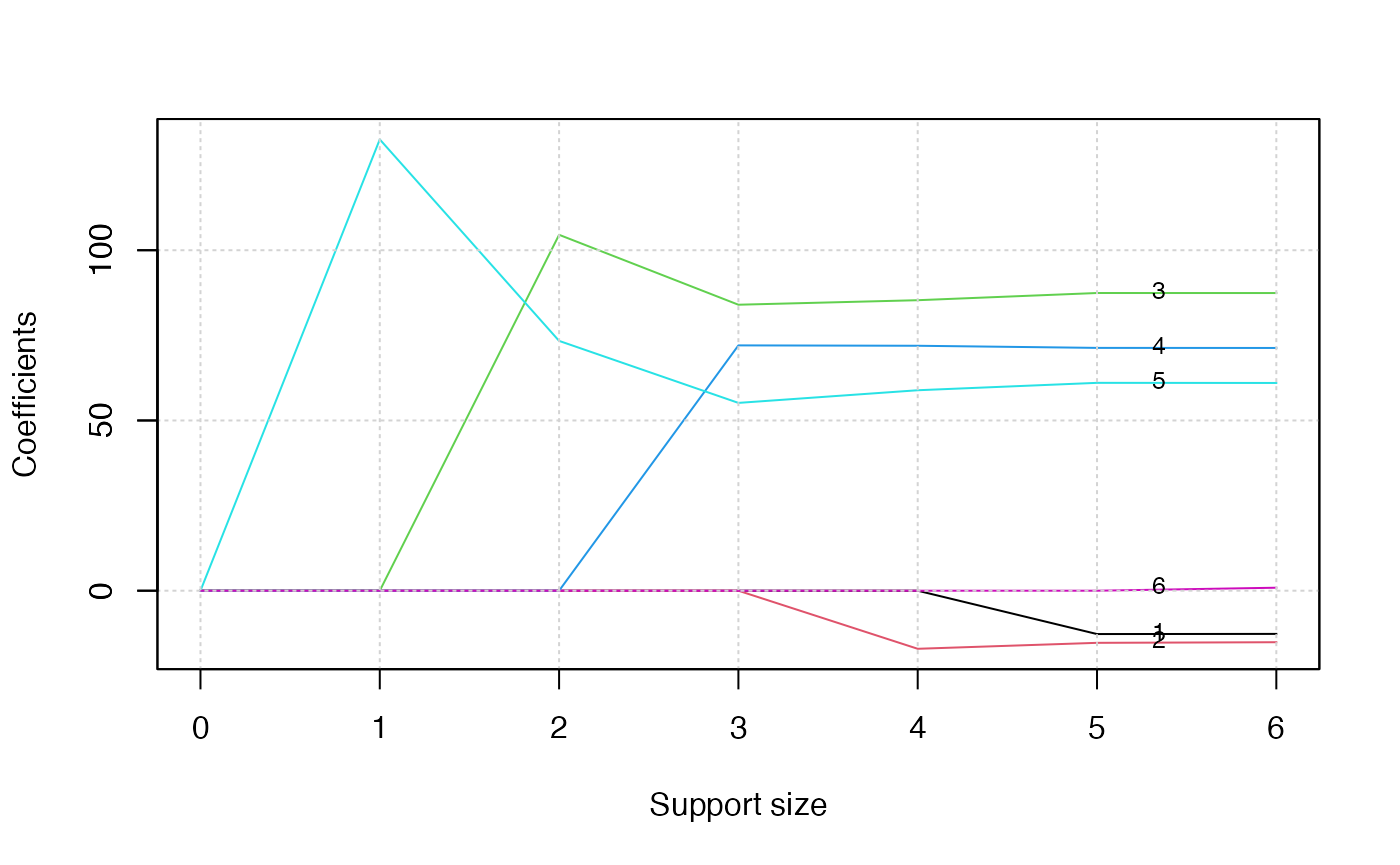
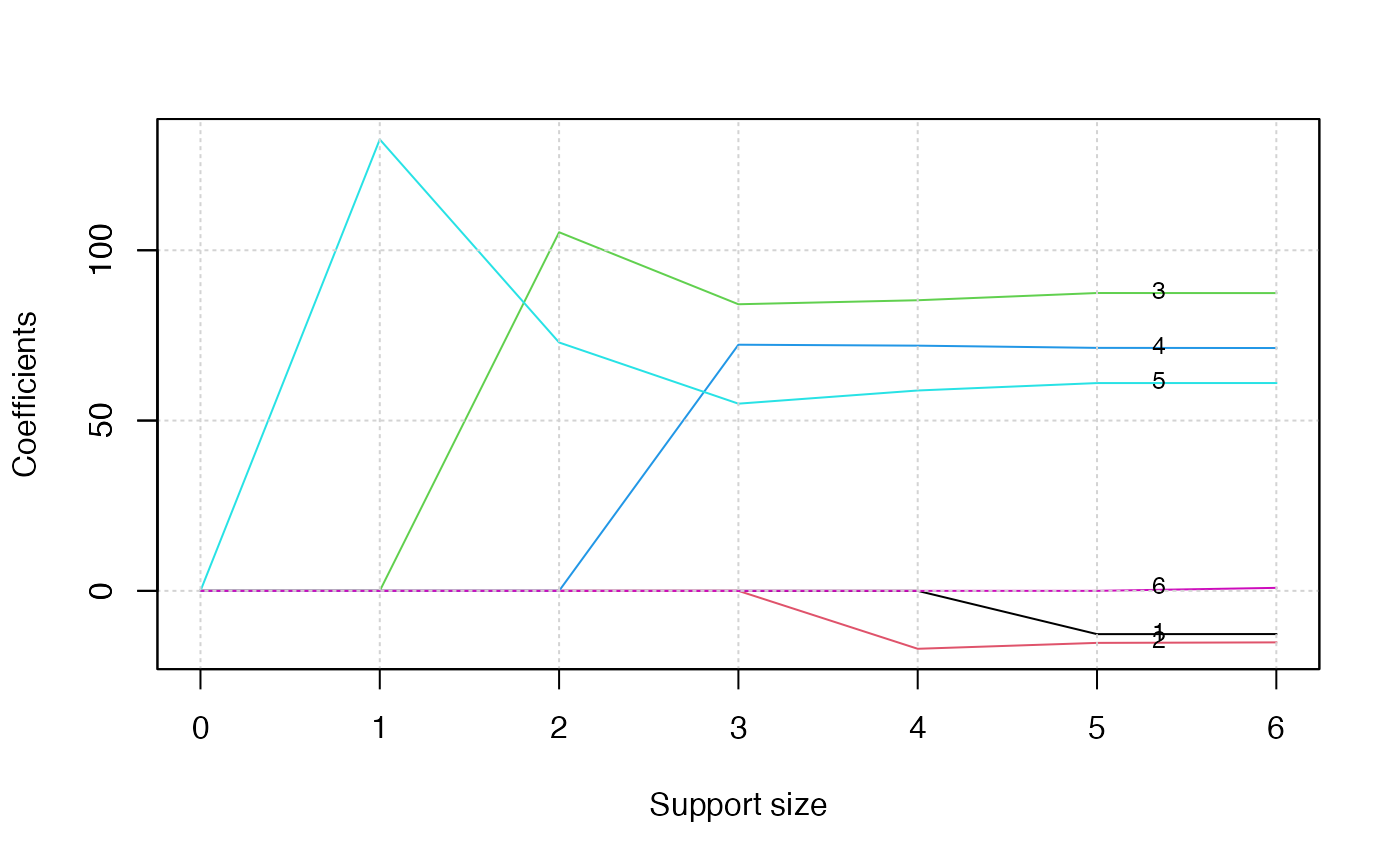
Built site for abess: 0.4.0@6e0a766

diff --git a/articles/v09-fasterSetting.html b/articles/v09-fasterSetting.html
@@ -176,13 +176,13 @@
 <span class="va">x</span> <span class="op">&lt;-</span> <span class="fu"><a href="https://rdrr.io/pkg/Matrix/man/Matrix.html" class="external-link">Matrix</a></span><span class="op">(</span><span class="va">x</span><span class="op">)</span>
 <span class="fu"><a href="https://rdrr.io/r/utils/head.html" class="external-link">head</a></span><span class="op">(</span><span class="va">x</span><span class="op">[</span>, <span class="fl">1</span><span class="op">:</span><span class="fl">10</span><span class="op">]</span><span class="op">)</span></code></pre></div>
 <pre><code><span class="co">## 6 x 10 sparse Matrix of class "dgCMatrix"</span>
-<span class="co">##                                                        </span>
-<span class="co">## [1,] . . . . . .          .  .        .         .      </span>
-<span class="co">## [2,] . . . . . .          . -1.021261 .         .      </span>
-<span class="co">## [3,] . . . . . .          .  .        1.659707  .      </span>
-<span class="co">## [4,] . . . . . .          .  .        .         .      </span>
-<span class="co">## [5,] . . . . . .          .  .        .         .      </span>
-<span class="co">## [6,] . . . . . 0.03339956 .  .        .        -1.78377</span></code></pre>
+<span class="co">##                                                                         </span>
+<span class="co">## [1,] -1.077961  .         . . .         . .          .        . .       </span>
+<span class="co">## [2,]  .         .         . . .         . .          .        . .       </span>
+<span class="co">## [3,]  .         0.7864908 . . 0.7023204 . .          .        . 0.330055</span>
+<span class="co">## [4,]  .         .         . . .         . .          .        . .       </span>
+<span class="co">## [5,]  .         .         . . .         . .          .        . .       </span>
+<span class="co">## [6,]  .        -0.8052227 . . .         . 0.5017217 -0.138376 . .</span></code></pre>
 <p>Then, we apply ABESS algorithm on Matrix <code>x</code> and record the runtime in <code>t1</code>:</p>
 <div class="sourceCode" id="cb5"><pre class="downlit sourceCode r">
 <code class="sourceCode R"><span class="kw"><a href="https://rdrr.io/r/base/library.html" class="external-link">library</a></span><span class="op">(</span><span class="va"><a href="https://github.com/abess-team/abess" class="external-link">abess</a></span><span class="op">)</span>
@@ -191,19 +191,19 @@
 <div class="sourceCode" id="cb6"><pre class="downlit sourceCode r">
 <code class="sourceCode R"><span class="va">x</span> <span class="op">&lt;-</span> <span class="fu"><a href="https://rdrr.io/r/base/matrix.html" class="external-link">as.matrix</a></span><span class="op">(</span><span class="va">x</span><span class="op">)</span>
 <span class="fu"><a href="https://rdrr.io/r/utils/head.html" class="external-link">head</a></span><span class="op">(</span><span class="va">x</span><span class="op">[</span>, <span class="fl">1</span><span class="op">:</span><span class="fl">6</span><span class="op">]</span><span class="op">)</span></code></pre></div>
-<pre><code><span class="co">##      [,1] [,2] [,3] [,4] [,5]       [,6]</span>
-<span class="co">## [1,]    0    0    0    0    0 0.00000000</span>
-<span class="co">## [2,]    0    0    0    0    0 0.00000000</span>
-<span class="co">## [3,]    0    0    0    0    0 0.00000000</span>
-<span class="co">## [4,]    0    0    0    0    0 0.00000000</span>
-<span class="co">## [5,]    0    0    0    0    0 0.00000000</span>
-<span class="co">## [6,]    0    0    0    0    0 0.03339956</span></code></pre>
+<pre><code><span class="co">##           [,1]       [,2] [,3] [,4]      [,5] [,6]</span>
+<span class="co">## [1,] -1.077961  0.0000000    0    0 0.0000000    0</span>
+<span class="co">## [2,]  0.000000  0.0000000    0    0 0.0000000    0</span>
+<span class="co">## [3,]  0.000000  0.7864908    0    0 0.7023204    0</span>
+<span class="co">## [4,]  0.000000  0.0000000    0    0 0.0000000    0</span>
+<span class="co">## [5,]  0.000000  0.0000000    0    0 0.0000000    0</span>
+<span class="co">## [6,]  0.000000 -0.8052227    0    0 0.0000000    0</span></code></pre>
 <div class="sourceCode" id="cb8"><pre class="downlit sourceCode r">
 <code class="sourceCode R"><span class="va">t2</span> <span class="op">&lt;-</span> <span class="fu"><a href="https://rdrr.io/r/base/system.time.html" class="external-link">system.time</a></span><span class="op">(</span><span class="va">abess_fit</span> <span class="op">&lt;-</span> <span class="fu"><a href="../reference/abess.html">abess</a></span><span class="op">(</span><span class="va">x</span>, <span class="va">y</span><span class="op">)</span><span class="op">)</span>
 <span class="fu"><a href="https://rdrr.io/r/base/cbind.html" class="external-link">rbind</a></span><span class="op">(</span><span class="va">t1</span>, <span class="va">t2</span><span class="op">)</span><span class="op">[</span>, <span class="fl">1</span><span class="op">:</span><span class="fl">3</span><span class="op">]</span></code></pre></div>
 <pre><code><span class="co">##    user.self sys.self elapsed</span>
-<span class="co">## t1     0.252    0.007   0.260</span>
-<span class="co">## t2     0.316    0.032   0.349</span></code></pre>
+<span class="co">## t1     0.314    0.010   0.324</span>
+<span class="co">## t2     0.394    0.043   0.438</span></code></pre>
 <p>From the comparison, we see that the time required by sparse matrix is visibly smaller, and thus, we suggest to assign a sparse matrix to <code>abess</code> when the input matrix have a lot of zero entries.</p>
 </div>
 <div class="section level2">
@@ -241,8 +241,8 @@
 <code class="sourceCode R"><span class="va">t2</span> <span class="op">&lt;-</span> <span class="fu"><a href="https://rdrr.io/r/base/system.time.html" class="external-link">system.time</a></span><span class="op">(</span><span class="va">abess_fit</span> <span class="op">&lt;-</span> <span class="fu"><a href="../reference/abess.html">abess</a></span><span class="op">(</span><span class="va">y</span> <span class="op">~</span> <span class="va">.</span>, data <span class="op">=</span> <span class="va">dat</span><span class="op">)</span><span class="op">)</span>
 <span class="fu"><a href="https://rdrr.io/r/base/cbind.html" class="external-link">rbind</a></span><span class="op">(</span><span class="va">t1</span>, <span class="va">t2</span><span class="op">)</span><span class="op">[</span>, <span class="fl">1</span><span class="op">:</span><span class="fl">3</span><span class="op">]</span></code></pre></div>
 <pre><code><span class="co">##    user.self sys.self elapsed</span>
-<span class="co">## t1     0.021     0.00   0.022</span>
-<span class="co">## t2     0.067     0.01   0.086</span></code></pre>
+<span class="co">## t1     0.026    0.001   0.027</span>
+<span class="co">## t2     0.081    0.012   0.093</span></code></pre>
 </div>
 <div class="section level2">
 <h2 id="early-stop">Early stop<a class="anchor" aria-label="anchor" href="#early-stop"></a>
@@ -320,8 +320,8 @@
 <code class="sourceCode R"><span class="va">t2</span> <span class="op">&lt;-</span> <span class="fu"><a href="https://rdrr.io/r/base/system.time.html" class="external-link">system.time</a></span><span class="op">(</span><span class="va">abess_fit</span> <span class="op">&lt;-</span> <span class="fu"><a href="../reference/abess.html">abess</a></span><span class="op">(</span><span class="va">y</span> <span class="op">~</span> <span class="va">.</span>, data <span class="op">=</span> <span class="va">dat</span><span class="op">)</span><span class="op">)</span>
 <span class="fu"><a href="https://rdrr.io/r/base/cbind.html" class="external-link">rbind</a></span><span class="op">(</span><span class="va">t1</span>, <span class="va">t2</span><span class="op">)</span><span class="op">[</span>, <span class="fl">1</span><span class="op">:</span><span class="fl">3</span><span class="op">]</span></code></pre></div>
 <pre><code><span class="co">##    user.self sys.self elapsed</span>
-<span class="co">## t1     0.062    0.007   0.070</span>
-<span class="co">## t2     0.068    0.008   0.076</span></code></pre>
+<span class="co">## t1     0.078    0.011   0.088</span>
+<span class="co">## t2     0.077    0.011   0.088</span></code></pre>
 <p>we can conclude that early-stopping brings fast computation and might maintain statistical guarantee.</p>
 </div>
   </div>

diff --git a/articles/v04-PoissonGammaReg.html b/articles/v04-PoissonGammaReg.html
@@ -303,25 +303,25 @@ y_i \sim Gamma(\mu_i, \alpha),
 <span class="fu"><a href="https://rdrr.io/r/stats/coef.html" class="external-link">coef</a></span><span class="op">(</span><span class="va">abess_fit</span><span class="op">)</span></code></pre></div>
 <pre><code><span class="co">## 7 x 7 sparse Matrix of class "dgCMatrix"</span>
 <span class="co">##                    0        1         2         3         4         5</span>
-<span class="co">## (intercept) 342.3786 433.5399 449.07955 453.59162 454.62486 456.86280</span>
-<span class="co">## age           .        .        .         .         .       -12.73044</span>
-<span class="co">## sex           .        .        .         .       -17.05833 -15.30942</span>
-<span class="co">## job           .        .      104.53483  83.99608  85.32251  87.43632</span>
-<span class="co">## education     .        .        .        72.05160  71.94211  71.31821</span>
-<span class="co">## region        .      132.5486  73.37383  55.16201  58.87711  61.05067</span>
+<span class="co">## (intercept) 342.3786 433.5399 449.27777 453.62074 454.59732 456.83731</span>
+<span class="co">## age           .        .        .         .         .       -12.70806</span>
+<span class="co">## sex           .        .        .         .       -17.01060 -15.27726</span>
+<span class="co">## job           .        .      105.29501  84.15000  85.32617  87.44921</span>
+<span class="co">## education     .        .        .        72.27034  71.99297  71.34328</span>
+<span class="co">## region        .      132.5486  72.92361  54.95905  58.82785  61.00714</span>
 <span class="co">## marriage      .        .        .         .         .         .      </span>
 <span class="co">##                       6</span>
-<span class="co">## (intercept) 456.9214598</span>
-<span class="co">## age         -12.6859059</span>
-<span class="co">## sex         -15.1305799</span>
-<span class="co">## job          87.4267021</span>
-<span class="co">## education    71.2965875</span>
-<span class="co">## region       61.0173033</span>
-<span class="co">## marriage      0.8783947</span></code></pre>
+<span class="co">## (intercept) 456.9220275</span>
+<span class="co">## age         -12.6863180</span>
+<span class="co">## sex         -15.1307531</span>
+<span class="co">## job          87.4276376</span>
+<span class="co">## education    71.2958702</span>
+<span class="co">## region       61.0173585</span>
+<span class="co">## marriage      0.8782877</span></code></pre>
 <div class="sourceCode" id="cb30"><pre class="downlit sourceCode r">
 <code class="sourceCode R"><span class="co"># get the deviance of the estimated model on all candidate support size</span>
 <span class="fu"><a href="https://rdrr.io/r/stats/deviance.html" class="external-link">deviance</a></span><span class="op">(</span><span class="va">abess_fit</span><span class="op">)</span></code></pre></div>
-<pre><code><span class="co">## [1] -4.835917 -4.979948 -5.041090 -5.058884 -5.059648 -5.060127 -5.060129</span></code></pre>
+<pre><code><span class="co">## [1] -4.835917 -4.979948 -5.041093 -5.058884 -5.059648 -5.060127 -5.060129</span></code></pre>
 <div class="sourceCode" id="cb32"><pre class="downlit sourceCode r">
 <code class="sourceCode R"><span class="co"># print the fitted model</span>
 <span class="fu"><a href="https://rdrr.io/r/base/print.html" class="external-link">print</a></span><span class="op">(</span><span class="va">abess_fit</span><span class="op">)</span></code></pre></div>
@@ -331,22 +331,22 @@ y_i \sim Gamma(\mu_i, \alpha),
 <span class="co">## </span>
 <span class="co">##   support.size       dev        cv</span>
 <span class="co">## 1            0 -4.835917 -4.782249</span>
-<span class="co">## 2            1 -4.979948 -4.879505</span>
-<span class="co">## 3            2 -5.041090 -5.009830</span>
-<span class="co">## 4            3 -5.058884 -4.568354</span>
-<span class="co">## 5            4 -5.059648 -4.568300</span>
-<span class="co">## 6            5 -5.060127 -4.569411</span>
-<span class="co">## 7            6 -5.060129 -4.569221</span></code></pre>
+<span class="co">## 2            1 -4.979948 -4.879499</span>
+<span class="co">## 3            2 -5.041093 -5.009807</span>
+<span class="co">## 4            3 -5.058884 -4.571407</span>
+<span class="co">## 5            4 -5.059648 -4.568772</span>
+<span class="co">## 6            5 -5.060127 -4.569592</span>
+<span class="co">## 7            6 -5.060129 -4.569258</span></code></pre>
 <div class="sourceCode" id="cb34"><pre class="downlit sourceCode r">
 <code class="sourceCode R"><span class="co"># predict results for given support sizes</span>
 <span class="fu"><a href="https://rdrr.io/r/utils/head.html" class="external-link">head</a></span><span class="op">(</span><span class="fu"><a href="https://rdrr.io/r/stats/predict.html" class="external-link">predict</a></span><span class="op">(</span><span class="va">abess_fit</span>, newx <span class="op">=</span> <span class="va">dat</span><span class="op">$</span><span class="va">x</span>, support.size <span class="op">=</span> <span class="fu"><a href="https://rdrr.io/r/base/c.html" class="external-link">c</a></span><span class="op">(</span><span class="fl">3</span>, <span class="fl">4</span><span class="op">)</span><span class="op">)</span><span class="op">)</span></code></pre></div>
 <pre><code><span class="co">##             3        4</span>
-<span class="co">## [1,] 611.6387 627.6912</span>
-<span class="co">## [2,] 624.5590 634.2712</span>
-<span class="co">## [3,] 695.6343 711.8548</span>
-<span class="co">## [4,] 376.5943 373.0828</span>
-<span class="co">## [5,] 357.8650 365.3057</span>
-<span class="co">## [6,] 751.6207 724.2588</span></code></pre>
+<span class="co">## [1,] 611.7083 627.6281</span>
+<span class="co">## [2,] 624.2342 634.1052</span>
+<span class="co">## [3,] 696.4612 711.9196</span>
+<span class="co">## [4,] 376.5679 373.0613</span>
+<span class="co">## [5,] 357.9886 365.3432</span>
+<span class="co">## [6,] 752.4413 724.4202</span></code></pre>
 <div class="sourceCode" id="cb36"><pre class="downlit sourceCode r">
 <code class="sourceCode R"><span class="fu"><a href="https://rdrr.io/r/graphics/plot.default.html" class="external-link">plot</a></span><span class="op">(</span><span class="va">abess_fit</span>, label <span class="op">=</span> <span class="cn">TRUE</span><span class="op">)</span></code></pre></div>
 <p><img src="v04-PoissonGammaReg_files/figure-html/unnamed-chunk-9-1.png" width="700"></p>
@@ -366,12 +366,12 @@ y_i \sim Gamma(\mu_i, \alpha),
 <span class="co">##   .. ..@ Dimnames:List of 2</span>
 <span class="co">##   .. .. ..$ : chr [1:6] "age" "sex" "job" "education" ...</span>
 <span class="co">##   .. .. ..$ : chr "3"</span>
-<span class="co">##   .. ..@ x       : num [1:3] 84 72.1 55.2</span>
+<span class="co">##   .. ..@ x       : num [1:3] 84.2 72.3 55</span>
 <span class="co">##   .. ..@ factors : list()</span>
 <span class="co">##  $ intercept   : num 454</span>
 <span class="co">##  $ support.size: num 3</span>
 <span class="co">##  $ support.vars: chr [1:3] "job" "education" "region"</span>
-<span class="co">##  $ support.beta: num [1:3] 84 72.1 55.2</span>
+<span class="co">##  $ support.beta: num [1:3] 84.2 72.3 55</span>
 <span class="co">##  $ dev         : num -5.06</span>
 <span class="co">##  $ tune.value  : num -4.57</span></code></pre>
 <div class="sourceCode" id="cb40"><pre class="downlit sourceCode r">
@@ -381,9 +381,9 @@ y_i \sim Gamma(\mu_i, \alpha),
 <span class="co">##                  3</span>
 <span class="co">## age        .      </span>
 <span class="co">## sex        .      </span>
-<span class="co">## job       83.99608</span>
-<span class="co">## education 72.05160</span>
-<span class="co">## region    55.16201</span>
+<span class="co">## job       84.15000</span>
+<span class="co">## education 72.27034</span>
+<span class="co">## region    54.95905</span>
 <span class="co">## marriage   .</span></code></pre>
 </div>
   </div>

diff --git a/reference/abess.html b/reference/abess.html
@@ -616,29 +616,29 @@ Please see <a href="https://abess-team.github.io/abess/articles/v07-advancedFeat
 <span class="r-in"><span class="op">)</span></span>
 <span class="r-out co"><span class="r-pr">#&gt;</span> $`3`</span>
 <span class="r-out co"><span class="r-pr">#&gt;</span>                  1            2            3             </span>
-<span class="r-out co"><span class="r-pr">#&gt;</span>  [1,] 1.407801e-03 8.107198e-02 8.651273e-01 5.239288e-02</span>
-<span class="r-out co"><span class="r-pr">#&gt;</span>  [2,] 7.071985e-01 2.863502e-01 6.418956e-03 3.227119e-05</span>
-<span class="r-out co"><span class="r-pr">#&gt;</span>  [3,] 7.335159e-04 4.398018e-02 8.592931e-01 9.599321e-02</span>
-<span class="r-out co"><span class="r-pr">#&gt;</span>  [4,] 3.984005e-07 2.500476e-05 5.059806e-03 9.949148e-01</span>
-<span class="r-out co"><span class="r-pr">#&gt;</span>  [5,] 9.998081e-01 1.889092e-04 2.995426e-06 1.496234e-08</span>
-<span class="r-out co"><span class="r-pr">#&gt;</span>  [6,] 9.765122e-01 2.311070e-02 3.751948e-04 1.874823e-06</span>
-<span class="r-out co"><span class="r-pr">#&gt;</span>  [7,] 1.219072e-06 7.650844e-05 1.532129e-02 9.846010e-01</span>
-<span class="r-out co"><span class="r-pr">#&gt;</span>  [8,] 7.059497e-05 4.410999e-03 4.707901e-01 5.247283e-01</span>
-<span class="r-out co"><span class="r-pr">#&gt;</span>  [9,] 7.803523e-01 2.152528e-01 4.372913e-03 2.193933e-05</span>
-<span class="r-out co"><span class="r-pr">#&gt;</span> [10,] 8.524138e-02 7.707051e-01 1.432178e-01 8.357762e-04</span>
+<span class="r-out co"><span class="r-pr">#&gt;</span>  [1,] 4.262225e-05 1.829633e-02 9.726829e-01 8.978109e-03</span>
+<span class="r-out co"><span class="r-pr">#&gt;</span>  [2,] 7.882173e-01 2.111701e-01 6.125573e-04 1.037531e-07</span>
+<span class="r-out co"><span class="r-pr">#&gt;</span>  [3,] 1.486210e-05 6.456936e-03 9.682043e-01 2.532388e-02</span>
+<span class="r-out co"><span class="r-pr">#&gt;</span>  [4,] 1.577722e-10 6.899165e-08 4.083410e-04 9.995916e-01</span>
+<span class="r-out co"><span class="r-pr">#&gt;</span>  [5,] 9.999979e-01 2.067605e-06 4.727471e-09 8.002488e-13</span>
+<span class="r-out co"><span class="r-pr">#&gt;</span>  [6,] 9.966919e-01 3.300482e-03 7.571409e-06 1.281646e-09</span>
+<span class="r-out co"><span class="r-pr">#&gt;</span>  [7,] 8.368720e-10 3.659527e-07 2.162164e-03 9.978375e-01</span>
+<span class="r-out co"><span class="r-pr">#&gt;</span>  [8,] 4.271390e-07 1.867472e-04 5.250122e-01 4.748006e-01</span>
+<span class="r-out co"><span class="r-pr">#&gt;</span>  [9,] 8.728258e-01 1.268418e-01 3.322732e-04 5.626364e-08</span>
+<span class="r-out co"><span class="r-pr">#&gt;</span> [10,] 2.426574e-02 8.916995e-01 8.401922e-02 1.552701e-05</span>
 <span class="r-out co"><span class="r-pr">#&gt;</span> </span>
 <span class="r-out co"><span class="r-pr">#&gt;</span> $`4`</span>
 <span class="r-out co"><span class="r-pr">#&gt;</span>                  1            2            3             </span>
-<span class="r-out co"><span class="r-pr">#&gt;</span>  [1,] 1.450737e-06 3.509109e-03 9.943658e-01 2.123666e-03</span>
-<span class="r-out co"><span class="r-pr">#&gt;</span>  [2,] 8.970047e-01 1.029481e-01 4.728081e-05 3.545044e-10</span>
-<span class="r-out co"><span class="r-pr">#&gt;</span>  [3,] 1.180996e-06 2.858512e-03 9.945329e-01 2.607451e-03</span>
-<span class="r-out co"><span class="r-pr">#&gt;</span>  [4,] 1.736064e-13 4.214063e-10 5.622626e-05 9.999438e-01</span>
-<span class="r-out co"><span class="r-pr">#&gt;</span>  [5,] 1.000000e+00 2.403180e-08 9.900303e-12 0.000000e+00</span>
-<span class="r-out co"><span class="r-pr">#&gt;</span>  [6,] 9.967921e-01 3.206571e-03 1.325250e-06 9.936052e-12</span>
-<span class="r-out co"><span class="r-pr">#&gt;</span>  [7,] 5.062323e-13 1.228811e-09 1.639368e-04 9.998361e-01</span>
-<span class="r-out co"><span class="r-pr">#&gt;</span>  [8,] 8.718559e-09 2.116269e-05 7.384642e-01 2.615147e-01</span>
-<span class="r-out co"><span class="r-pr">#&gt;</span>  [9,] 8.384669e-01 1.614538e-01 7.932748e-05 5.948046e-10</span>
-<span class="r-out co"><span class="r-pr">#&gt;</span> [10,] 8.159489e-03 9.441698e-01 4.767036e-02 3.752991e-07</span>
+<span class="r-out co"><span class="r-pr">#&gt;</span>  [1,] 2.718879e-07 1.668930e-03 9.974270e-01 9.038274e-04</span>
+<span class="r-out co"><span class="r-pr">#&gt;</span>  [2,] 9.222029e-01 7.778339e-02 1.371784e-05 2.074940e-11</span>
+<span class="r-out co"><span class="r-pr">#&gt;</span>  [3,] 2.028760e-07 1.245842e-03 9.975430e-01 1.210908e-03</span>
+<span class="r-out co"><span class="r-pr">#&gt;</span>  [4,] 4.080690e-15 2.509040e-11 1.659043e-05 9.999834e-01</span>
+<span class="r-out co"><span class="r-pr">#&gt;</span>  [5,] 1.000000e+00 2.518530e-09 4.096723e-13 0.000000e+00</span>
+<span class="r-out co"><span class="r-pr">#&gt;</span>  [6,] 9.985539e-01 1.445840e-03 2.354909e-07 3.561595e-13</span>
+<span class="r-out co"><span class="r-pr">#&gt;</span>  [7,] 1.450164e-14 8.916432e-11 5.895529e-05 9.999410e-01</span>
+<span class="r-out co"><span class="r-pr">#&gt;</span>  [8,] 8.009007e-10 4.924368e-06 7.650435e-01 2.349516e-01</span>
+<span class="r-out co"><span class="r-pr">#&gt;</span>  [9,] 8.676204e-01 1.323548e-01 2.481049e-05 3.752842e-11</span>
+<span class="r-out co"><span class="r-pr">#&gt;</span> [10,] 4.631050e-03 9.615982e-01 3.377066e-02 5.286555e-08</span>
 <span class="r-out co"><span class="r-pr">#&gt;</span> </span>
 <span class="r-in"></span>
 <span class="r-in"><span class="co">########## Best group subset selection #############</span></span>

diff --git a/reference/abesspca.html b/reference/abesspca.html
@@ -322,10 +322,10 @@ because the meaning of these parameters are very similar.</p>
 <span class="r-out co"><span class="r-pr">#&gt;</span> abesspca(x = rob_cov, type = "gram")</span>
 <span class="r-out co"><span class="r-pr">#&gt;</span> </span>
 <span class="r-out co"><span class="r-pr">#&gt;</span>   PC support.size       ev       pev</span>
-<span class="r-out co"><span class="r-pr">#&gt;</span> 1  1            1 6217.552 0.9601475</span>
-<span class="r-out co"><span class="r-pr">#&gt;</span> 2  1            2 6247.233 0.9647311</span>
-<span class="r-out co"><span class="r-pr">#&gt;</span> 3  1            3 6263.488 0.9672412</span>
-<span class="r-out co"><span class="r-pr">#&gt;</span> 4  1            4 6278.872 0.9696169</span>
+<span class="r-out co"><span class="r-pr">#&gt;</span> 1  1            1 6782.684 0.9598764</span>
+<span class="r-out co"><span class="r-pr">#&gt;</span> 2  1            2 6820.580 0.9652393</span>
+<span class="r-out co"><span class="r-pr">#&gt;</span> 3  1            3 6849.467 0.9693274</span>
+<span class="r-out co"><span class="r-pr">#&gt;</span> 4  1            4 6862.293 0.9711426</span>
 <span class="r-in"></span>
 <span class="r-in"><span class="co">## K-component principal component analysis</span></span>
 <span class="r-in"><span class="va">pca_fit</span> <span class="op">&lt;-</span> <span class="fu">abesspca</span><span class="op">(</span><span class="va">USArrests</span>,</span>
